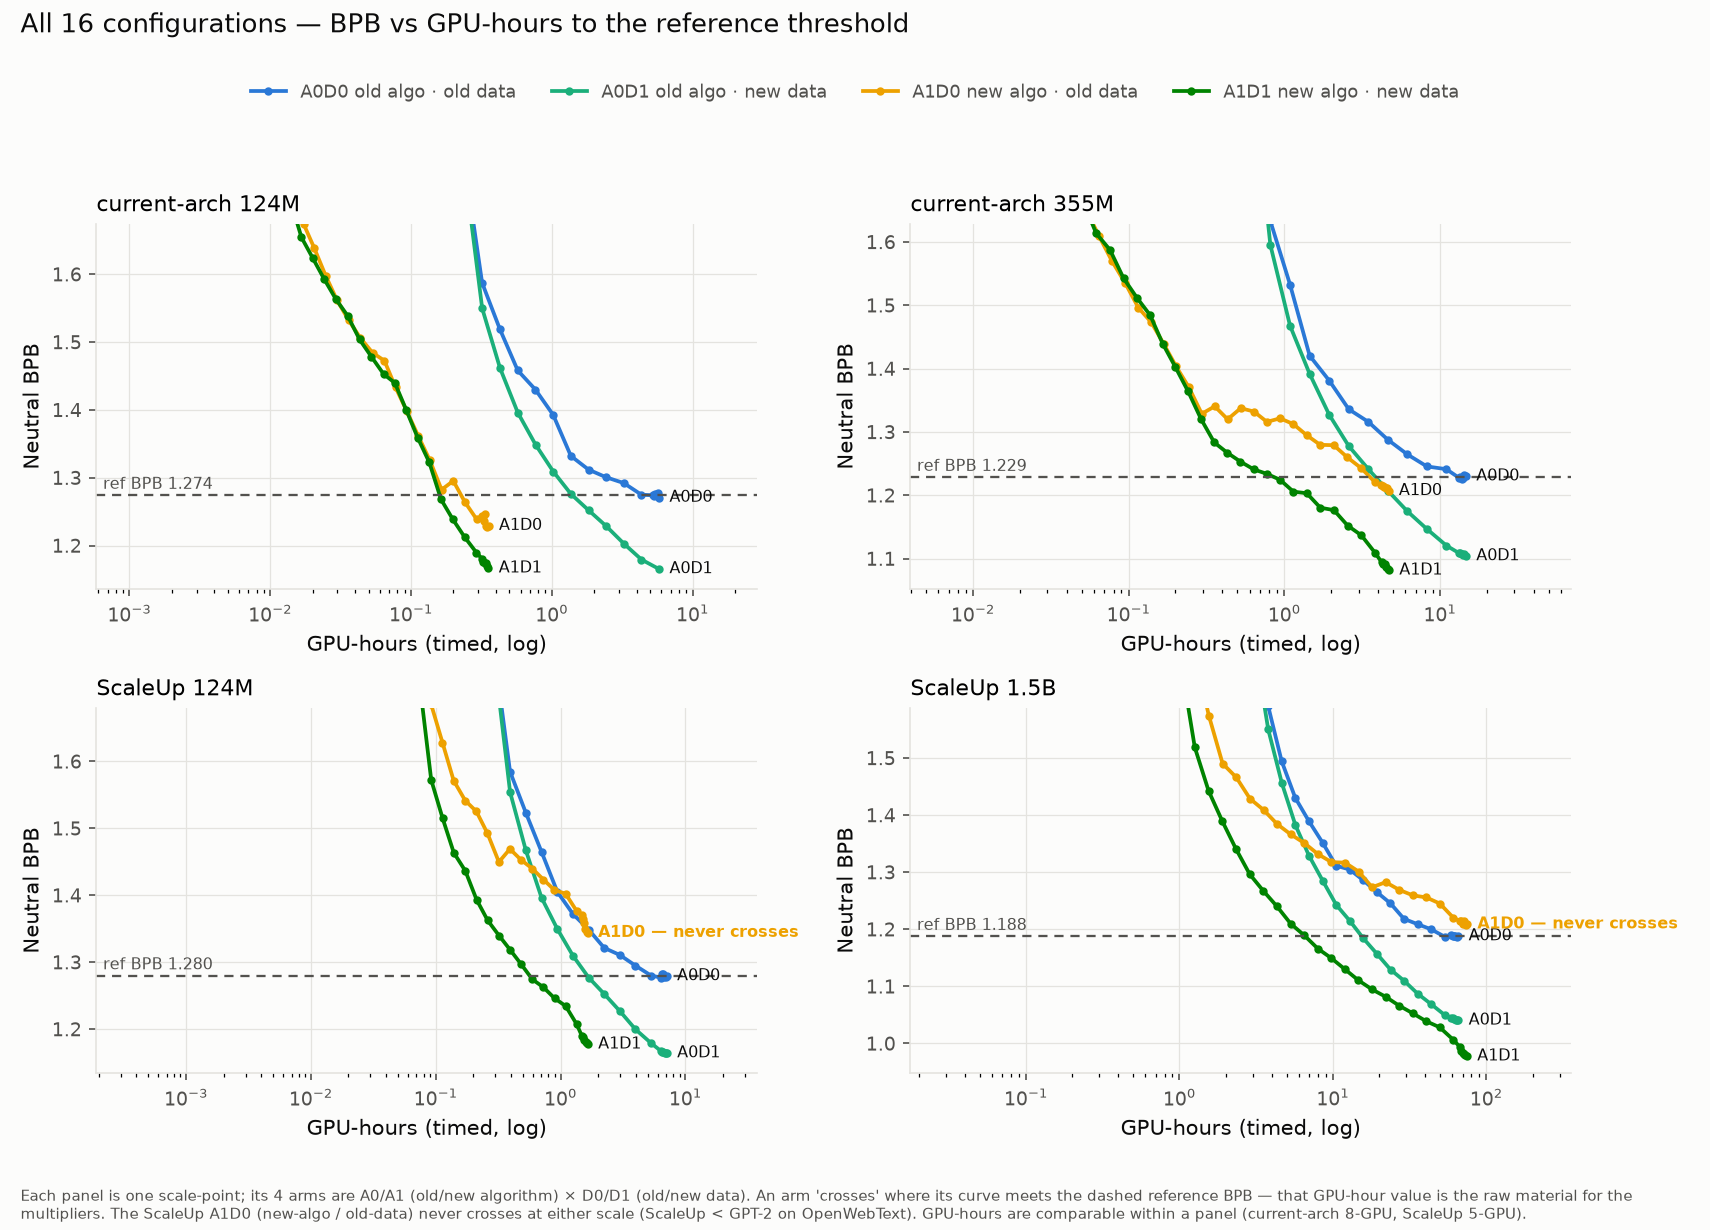
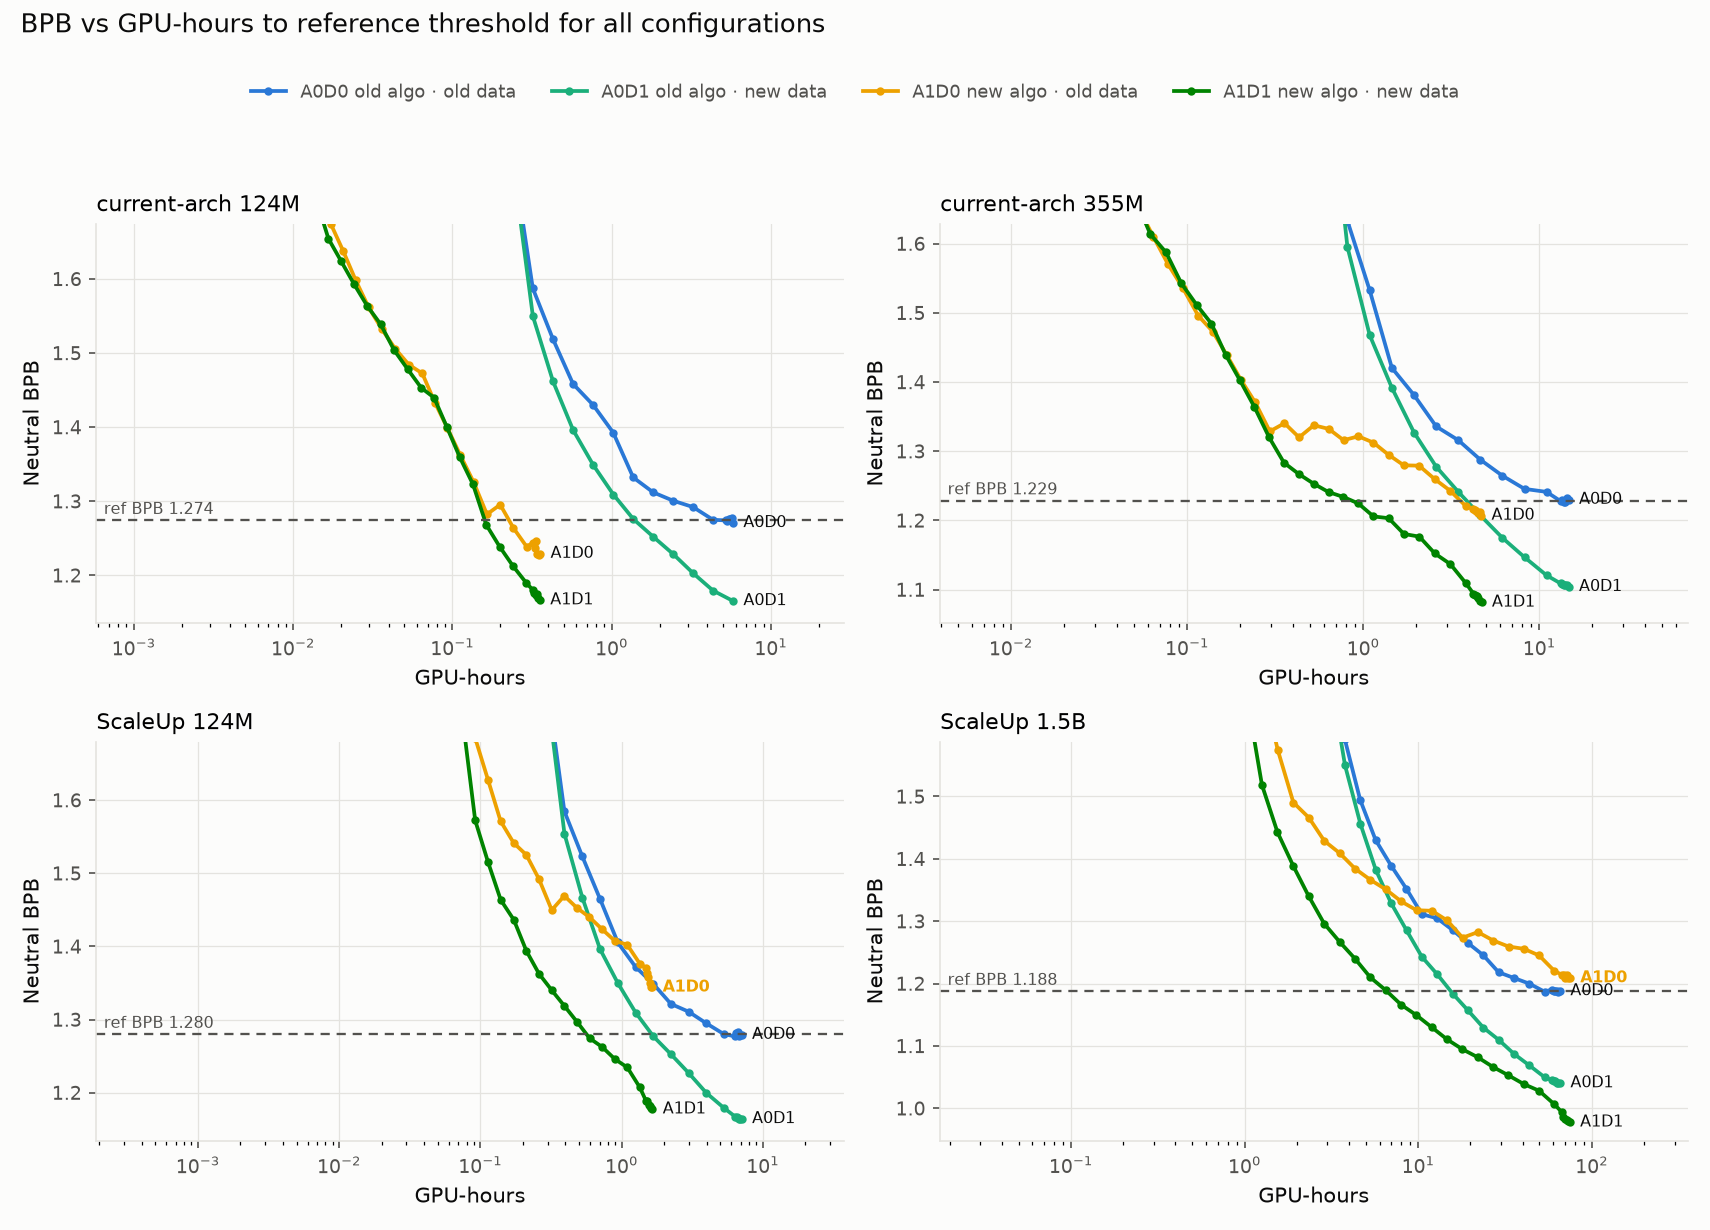
all_configs figure: retitle, drop 'never crosses' text (keep bold), simplify x-axis to GPU-hours, remove bottom caption

diff --git a/analysis/plots.py b/analysis/plots.py
@@ -190,11 +190,10 @@ def all_configs_curves(root: Path, out_path):
             ax.plot(hs, bs, color=ARM_COLORS[arm], linewidth=1.8, marker="o",
                     markersize=3, label=ARM_LABELS[arm])
             # an arm 'crosses' iff its BPB curve reaches the threshold; the
-            # ScaleUp A1D0 (ScaleUp on OWT) never does — flag it explicitly so a
-            # zoomed panel can't be misread as a crop.
+            # ScaleUp A1D0 (ScaleUp on OWT) never does — bold + arm-colored end
+            # label so a zoomed panel can't be misread as a crop.
             crossed = min(bs) <= thr
-            lbl = arm.upper() if crossed else f"{arm.upper()} — never crosses"
-            ax.annotate(lbl, xy=(hs[-1], bs[-1]), xytext=(5, 0),
+            ax.annotate(arm.upper(), xy=(hs[-1], bs[-1]), xytext=(5, 0),
                         textcoords="offset points", fontsize=7.5,
                         color=(INK if crossed else ARM_COLORS[arm]),
                         fontweight=("normal" if crossed else "bold"),
@@ -209,26 +208,17 @@ def all_configs_curves(root: Path, out_path):
         # crossing zone.
         ax.set_ylim(lo - 0.03, thr + 0.40)
         ax.set_xlim(right=ax.get_xlim()[1] * 3.2)  # room for end labels
-        ax.set_xlabel("GPU-hours (timed, log)")
+        ax.set_xlabel("GPU-hours")
         ax.set_ylabel("Neutral BPB")
         ax.set_title(label, fontsize=10.5, loc="left")
         _style(ax)
     handles, labels = axes[0, 0].get_legend_handles_labels()
     fig.legend(handles, labels, frameon=False, fontsize=8.5, labelcolor=INK2,
                loc="upper center", ncol=4, bbox_to_anchor=(0.5, 0.945))
-    fig.suptitle("All 16 configurations — BPB vs GPU-hours to the reference "
-                 "threshold", fontsize=12.5, x=0.012, ha="left", color=INK,
+    fig.suptitle("BPB vs GPU-hours to reference threshold for all "
+                 "configurations", fontsize=12.5, x=0.012, ha="left", color=INK,
                  y=0.99)
-    fig.text(0.012, 0.005,
-             "Each panel is one scale-point; its 4 arms are A0/A1 (old/new "
-             "algorithm) × D0/D1 (old/new data). An arm 'crosses' where its "
-             "curve meets the dashed reference BPB — that GPU-hour value is the "
-             "raw material for the multipliers. The ScaleUp A1D0 (new-algo / "
-             "old-data) never crosses at either scale (ScaleUp < GPT-2 on "
-             "OpenWebText). GPU-hours are comparable within a panel (current-arch "
-             "8-GPU, ScaleUp 5-GPU).", fontsize=7.2, color=INK2, va="bottom",
-             wrap=True)
-    fig.tight_layout(rect=(0, 0.055, 1, 0.90))
+    fig.tight_layout(rect=(0, 0, 1, 0.90))
     fig.savefig(out_path, facecolor=SURFACE)
     plt.close(fig)
 
